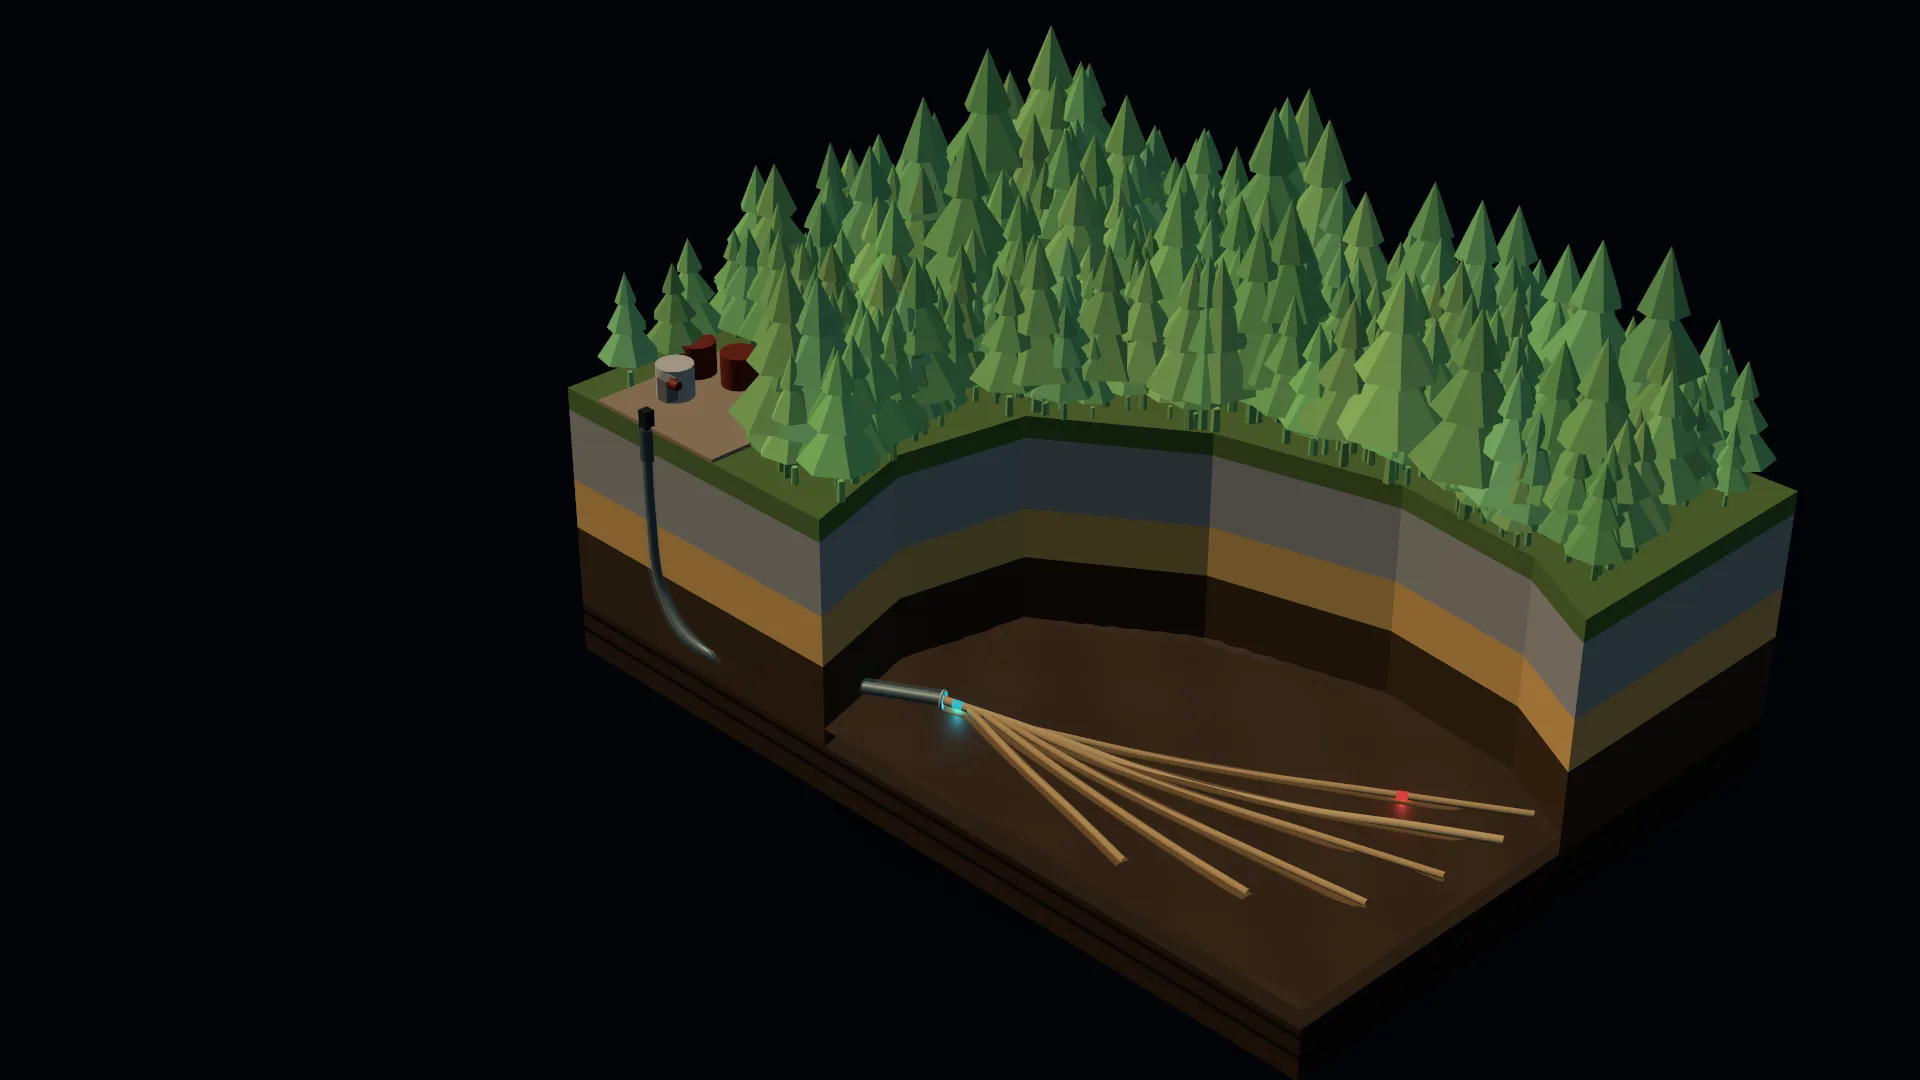
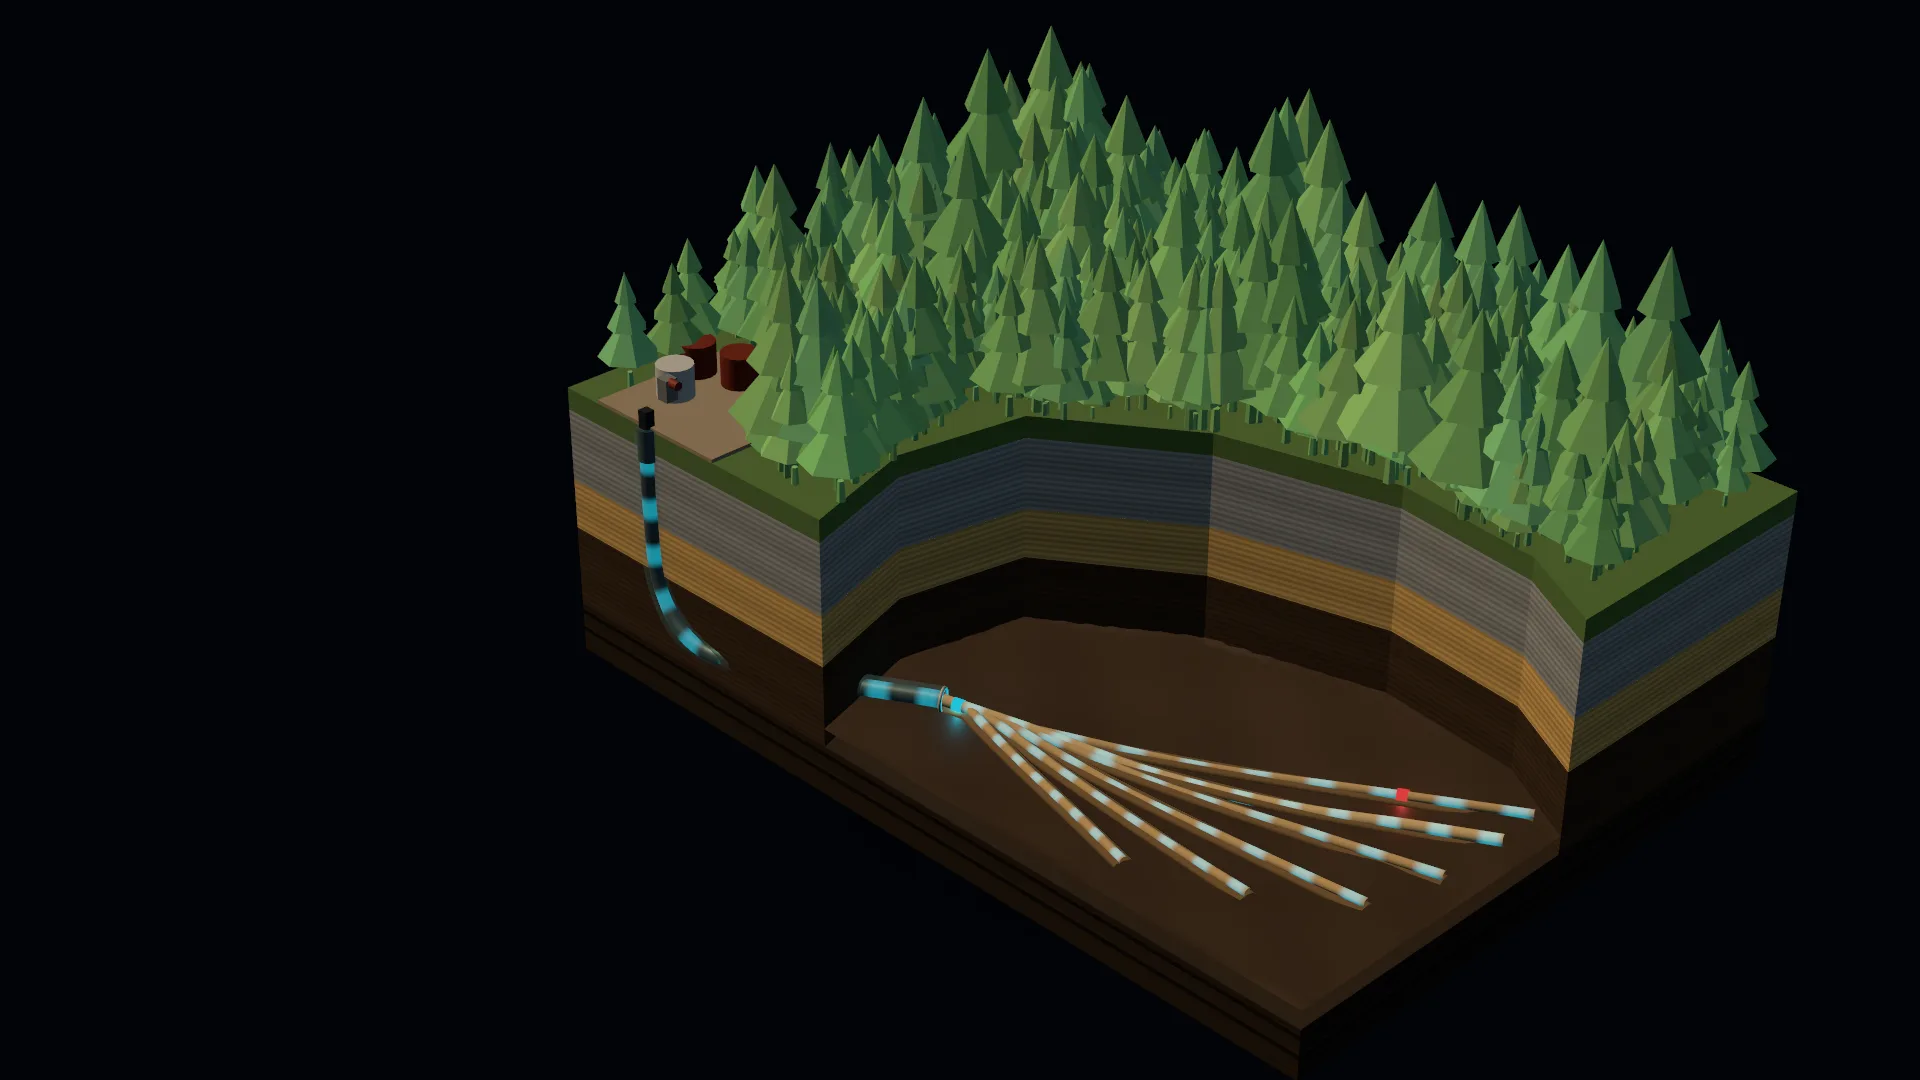
feat: art pass - laminated strata, protagonist well with flow chevrons
Closes the two highest-leverage gaps vs the artist reference:
1. Strata striation - world-Y procedural bedding shader on the rock bands
   (replaces the invisible bumpMap approach; bump never touched base color,
   and normal perturbation barely reads on flat slab walls). Beds read
   horizontal on every cut face regardless of UV.
2. Well protagonism - fatter telescoping radii, darker steel casing, and
   animated cyan flow chevrons along every bore in the lit phase (the
   reference's blue production arrows, now moving). Chevrons fade with the
   light and hand off to the relay pulses in the dark; new `flow` field on
   CycleState, unit-tested.

Poster re-captured to reflect the richer scene. Gates: 40 tests, tsc, lint,
static build all green.

diff --git a/src/components/hero/island/Terrain.tsx b/src/components/hero/island/Terrain.tsx
@@ -82,6 +82,58 @@ function makeNoiseTexture(): THREE.Texture {
   return tex;
 }
 
+// Laminated bedding driven by WORLD-Y, injected into a MeshStandardMaterial via
+// onBeforeCompile. A bumpMap (the prior approach) only perturbs normals — on flat,
+// smoothly-lit slab walls that is nearly invisible, and it never touches base color.
+// Real lithology lamination IS color variation (light/dark beds), so we modulate the
+// albedo directly. World-Y means the beds read perfectly horizontal on EVERY cut face
+// regardless of the extrude UV layout, and the multiply happens before lighting so the
+// day→dark cycle still dims the whole slab naturally.
+//   freq  — bedding-plane spacing (higher = finer beds)
+//   depth — how dark the bedding planes cut (0..1)
+//   phase — per-band offset so adjacent strata don't share identical bands
+function makeBeddingMaterial(
+  color: string,
+  roughness: number,
+  freq: number,
+  depth: number,
+  phase: number,
+  bump?: THREE.Texture,
+): THREE.MeshStandardMaterial {
+  const mat = new THREE.MeshStandardMaterial({ color, roughness, metalness: 0 });
+  if (bump) {
+    mat.bumpMap = bump;
+    mat.bumpScale = 0.018;
+  }
+  mat.onBeforeCompile = (shader) => {
+    shader.vertexShader = shader.vertexShader
+      .replace('#include <common>', '#include <common>\nvarying float vBedY;')
+      .replace(
+        '#include <begin_vertex>',
+        '#include <begin_vertex>\nvBedY = (modelMatrix * vec4(position, 1.0)).y;',
+      );
+    shader.fragmentShader = shader.fragmentShader
+      .replace(
+        '#include <common>',
+        `#include <common>
+        varying float vBedY;
+        const float BED_FREQ = ${freq.toFixed(1)};
+        const float BED_DEPTH = ${depth.toFixed(2)};
+        const float BED_PHASE = ${phase.toFixed(2)};`,
+      )
+      .replace(
+        '#include <color_fragment>',
+        `#include <color_fragment>
+        float bed = abs(sin(vBedY * BED_FREQ + BED_PHASE));
+        float line = smoothstep(0.45, 0.97, bed);            // sharp bedding planes
+        float lam = 0.5 + 0.5 * sin(vBedY * BED_FREQ * 0.31); // slow bed-to-bed value drift
+        diffuseColor.rgb *= (1.0 - BED_DEPTH * line);         // darken the planes
+        diffuseColor.rgb *= (0.90 + 0.18 * lam);              // gentle lamination shading`,
+      );
+  };
+  return mat;
+}
+
 function makeShadowTexture(): THREE.Texture {
   if (typeof document === 'undefined') return fallbackTexture();
   const size = 256;
@@ -124,31 +176,49 @@ export default function Terrain() {
   const shadowTex = useMemo(() => makeShadowTexture(), []);
   const noiseTex = useMemo(() => makeNoiseTexture(), []);
 
+  // Per-band bedding character: shale (overburden) is finely laminated; sand is
+  // coarser-bedded; the deep zones get subtler, slower beds. Phase offsets keep
+  // adjacent strata from sharing identical bedding lines across their shared edge.
+  const BEDDING: Record<string, { freq: number; depth: number; phase: number }> = {
+    overburden: { freq: 34, depth: 0.34, phase: 0.0 },
+    sand: { freq: 22, depth: 0.26, phase: 1.1 },
+    bitumenUp: { freq: 26, depth: 0.3, phase: 2.3 },
+  };
+
+  // One bedding material per rock band (topsoil/grass stays plain). Built once.
+  const strataMats = useMemo(
+    () =>
+      STRATA.map((s) => {
+        if (s.name === 'topsoil') {
+          const m = new THREE.MeshStandardMaterial({
+            color: s.color,
+            roughness: s.roughness,
+            metalness: 0,
+          });
+          m.bumpMap = noiseTex;
+          m.bumpScale = 0.02;
+          return m;
+        }
+        const b = BEDDING[s.name] ?? { freq: 26, depth: 0.3, phase: 0 };
+        return makeBeddingMaterial(s.color, s.roughness, b.freq, b.depth, b.phase, noiseTex);
+      }),
+    // eslint-disable-next-line react-hooks/exhaustive-deps
+    [noiseTex],
+  );
+  const lowerMat = useMemo(
+    () => makeBeddingMaterial(LOWER.color, LOWER.roughness, 20, 0.28, 0.6, noiseTex),
+    [noiseTex],
+  );
+
   // Resources are intentionally not disposed: the hero mounts once per page and
   // lives for its lifetime. (Dev hot-reload remounts leak a little VRAM —
   // acceptable; revisit only if this component ever mounts repeatedly.)
   return (
     <group>
       {STRATA.map((s, i) => (
-        <mesh key={s.name} geometry={strataGeoms[i]}>
-          <meshStandardMaterial
-            color={s.color}
-            roughness={s.roughness}
-            metalness={0}
-            bumpMap={noiseTex}
-            bumpScale={0.02}
-          />
-        </mesh>
+        <mesh key={s.name} geometry={strataGeoms[i]} material={strataMats[i]} />
       ))}
-      <mesh geometry={lowerGeom}>
-        <meshStandardMaterial
-          color={LOWER.color}
-          roughness={LOWER.roughness}
-          metalness={0}
-          bumpMap={noiseTex}
-          bumpScale={0.02}
-        />
-      </mesh>
+      <mesh geometry={lowerGeom} material={lowerMat} />
       {coalGeoms.map((g, i) => (
         <mesh key={`coal-y${COAL_YS[i]}`} geometry={g} scale={[1.001, 1, 1.001]}>
           <meshStandardMaterial color="#0d0b08" roughness={0.4} metalness={0.1} />

diff --git a/src/components/hero/island/IslandScene.tsx b/src/components/hero/island/IslandScene.tsx
@@ -40,6 +40,7 @@ export default function IslandScene({ tier, reducedMotion, compact }: IslandScen
       createPulseMaterial({
         base: { color: COLORS.casing, roughness: 0.35, metalness: 0.85 },
         pulseColor: COLORS.emGlow,
+        flowCount: 10,
       }),
     [],
   );
@@ -48,6 +49,25 @@ export default function IslandScene({ tier, reducedMotion, compact }: IslandScen
       createPulseMaterial({
         base: { color: COLORS.lateral, roughness: 0.9, metalness: 0 },
         pulseColor: COLORS.signalRed,
+        flowCount: 8,
+      }),
+    [],
+  );
+  const motherboreFlow = useMemo(
+    () =>
+      createPulseMaterial({
+        base: { color: COLORS.openHole, roughness: 0.9, metalness: 0 },
+        pulseColor: COLORS.emGlow,
+        flowCount: 12,
+      }),
+    [],
+  );
+  const lateralFlow = useMemo(
+    () =>
+      createPulseMaterial({
+        base: { color: COLORS.lateral, roughness: 0.9, metalness: 0 },
+        pulseColor: COLORS.emGlow,
+        flowCount: 8,
       }),
     [],
   );
@@ -77,6 +97,18 @@ export default function IslandScene({ tier, reducedMotion, compact }: IslandScen
     } else {
       casedPulse.setPulse(-1, 0);
     }
+
+    // Lit-phase production-flow chevrons on every bore (freeze time under reduced motion).
+    // Wrap at 20 s: the dash shader is periodic in uTime*0.45, and 20*0.45 = 9.0 (an
+    // integer number of dash periods), so the wrap is seamless AND keeps uTime small —
+    // raw unbounded elapsedTime would lose fragment-shader fract() precision (dash jitter)
+    // after a long session.
+    const flowTime = reducedMotion ? REDUCED_MOTION_T : state.clock.elapsedTime % 20;
+    const flowStrength = 0.9 * s.flow;
+    casedPulse.setFlow(flowStrength, flowTime);
+    lateralPulse.setFlow(flowStrength, flowTime);
+    motherboreFlow.setFlow(flowStrength, flowTime);
+    lateralFlow.setFlow(flowStrength, flowTime);
 
     if (parallax.current && !reducedMotion) {
       const targetY = state.pointer.x * 0.05;
@@ -124,6 +156,8 @@ export default function IslandScene({ tier, reducedMotion, compact }: IslandScen
             paths={paths}
             casedMaterial={casedPulse.material}
             lateralFiveMaterial={lateralPulse.material}
+            openHoleMaterial={motherboreFlow.material}
+            lateralMaterial={lateralFlow.material}
           />
           <WellFiTools toolA={paths.toolA} toolB={paths.toolB} cycleRef={cycleRef} />
           <SignalRelay cycleRef={cycleRef} wellhead={paths.wellhead} />

diff --git a/src/lib/island/pulseMaterial.ts b/src/lib/island/pulseMaterial.ts
@@ -10,6 +10,8 @@ export interface PulseHandle {
   material: THREE.MeshStandardMaterial;
   /** head: 0..1 along the tube's u axis, or -1 to disable. strength: emissive multiplier. width: gaussian half-width in u (default 0.07). */
   setPulse(head: number, strength: number, width?: number): void;
+  /** strength: 0..1 lit-phase flow intensity. time: elapsed scene time for animation. */
+  setFlow(strength: number, time: number): void;
 }
 
 // Contract: the mesh using this material must be a TubeGeometry — three maps
@@ -17,12 +19,17 @@ export interface PulseHandle {
 export function createPulseMaterial(opts: {
   base: THREE.MeshStandardMaterialParameters;
   pulseColor: string;
+  flowCount?: number;
 }): PulseHandle {
   const uniforms = {
     uHead: { value: -1 },
     uWidth: { value: 0.07 },
     uStrength: { value: 0 },
     uPulseColor: { value: new THREE.Color(opts.pulseColor) },
+    uTime: { value: 0 },
+    uFlowStrength: { value: 0 },
+    uFlowCount: { value: opts.flowCount ?? 10 },
+    uFlowColor: { value: new THREE.Color('#22D3EE') },
   };
 
   const material = new THREE.MeshStandardMaterial(opts.base);
@@ -35,7 +42,7 @@ export function createPulseMaterial(opts: {
     shader.fragmentShader = shader.fragmentShader
       .replace(
         '#include <common>',
-        '#include <common>\nuniform float uHead;\nuniform float uWidth;\nuniform float uStrength;\nuniform vec3 uPulseColor;',
+        '#include <common>\nuniform float uHead;\nuniform float uWidth;\nuniform float uStrength;\nuniform vec3 uPulseColor;\nuniform float uTime;\nuniform float uFlowStrength;\nuniform float uFlowCount;\nuniform vec3 uFlowColor;',
       )
       .replace(
         '#include <emissivemap_fragment>',
@@ -43,6 +50,11 @@ export function createPulseMaterial(opts: {
         if (uHead >= 0.0) {
           float d = (vUv.x - uHead) / uWidth;
           totalEmissiveRadiance += uPulseColor * (uStrength * exp(-d * d));
+        }
+        if (uFlowStrength > 0.0) {
+          float saw = fract(vUv.x * uFlowCount + uTime * 0.45);
+          float dash = smoothstep(0.0, 0.22, saw) * (1.0 - smoothstep(0.4, 0.62, saw));
+          totalEmissiveRadiance += uFlowColor * (uFlowStrength * dash * 0.55);
         }`,
       );
   };
@@ -53,6 +65,10 @@ export function createPulseMaterial(opts: {
       uniforms.uHead.value = head;
       uniforms.uStrength.value = strength;
       uniforms.uWidth.value = width;
+    },
+    setFlow(strength, time) {
+      uniforms.uFlowStrength.value = strength;
+      uniforms.uTime.value = time;
     },
   };
 }

diff --git a/src/components/hero/island/WellSystem.tsx b/src/components/hero/island/WellSystem.tsx
@@ -13,9 +13,11 @@ interface WellSystemProps {
   // Pulse-carrying materials, owned by IslandScene (created via createPulseMaterial).
   casedMaterial: THREE.Material;
   lateralFiveMaterial: THREE.Material;
+  openHoleMaterial: THREE.Material;
+  lateralMaterial: THREE.Material;
 }
 
-export default function WellSystem({ paths, casedMaterial, lateralFiveMaterial }: WellSystemProps) {
+export default function WellSystem({ paths, casedMaterial, lateralFiveMaterial, openHoleMaterial, lateralMaterial }: WellSystemProps) {
   const geoms = useMemo(() => {
     const cased = new THREE.TubeGeometry(paths.cased, 72, RADII.cased, 12, false);
     const shell = new THREE.TubeGeometry(paths.cased, 72, RADII.cased * 1.55, 12, false);
@@ -70,18 +72,14 @@ export default function WellSystem({ paths, casedMaterial, lateralFiveMaterial }
       <mesh geometry={geoms.cased} material={casedMaterial} />
 
       {/* Open-hole pilot */}
-      <mesh geometry={geoms.openHole}>
-        <meshStandardMaterial color={COLORS.openHole} roughness={0.9} metalness={0} />
-      </mesh>
+      <mesh geometry={geoms.openHole} material={openHoleMaterial} />
 
       {/* Laterals — L5 (index 4) carries the red pulse from WellFi B */}
       {geoms.laterals.map((g, i) =>
         i === PULSE_LATERAL_INDEX ? (
           <mesh key={`lat-${i}`} geometry={g} material={lateralFiveMaterial} />
         ) : (
-          <mesh key={`lat-${i}`} geometry={g}>
-            <meshStandardMaterial color={COLORS.lateral} roughness={0.9} metalness={0} />
-          </mesh>
+          <mesh key={`lat-${i}`} geometry={g} material={lateralMaterial} />
         ),
       )}
 

diff --git a/src/lib/island/cycle.test.ts b/src/lib/island/cycle.test.ts
@@ -61,12 +61,19 @@ describe('cycleState', () => {
     expect(f06.collarA).toBeGreaterThan(EMBER + 0.2);
   });
 
+  it('flow follows the lit phase', () => {
+    expect(cycleState(1).flow).toBe(1);
+    expect(cycleState(6).flow).toBe(0);
+    expect(cycleState(4).flow).toBeGreaterThan(0);
+    expect(cycleState(4).flow).toBeLessThan(1);
+  });
+
   it('all envelope fields stay in range', () => {
     let maxCollar = 0;
     for (let t = 0; t < CYCLE_S; t += 0.05) {
       const s = cycleState(t);
       maxCollar = Math.max(maxCollar, s.collarA, s.collarB);
-      for (const k of ['sun', 'sky', 'collarA', 'collarB'] as const) {
+      for (const k of ['sun', 'sky', 'collarA', 'collarB', 'flow'] as const) {
         expect(s[k]).toBeGreaterThanOrEqual(0);
         expect(s[k]).toBeLessThanOrEqual(1);
       }

diff --git a/src/lib/island/wellPath.ts b/src/lib/island/wellPath.ts
@@ -8,10 +8,10 @@ import { CatmullRomCurve3, Vector3 } from 'three';
 import { floorY } from './layout';
 
 export const RADII = {
-  surfaceStub: 0.12,
-  cased: 0.09,
-  openHole: 0.062,
-  lateral: 0.05,
+  surfaceStub: 0.15,
+  cased: 0.125,
+  openHole: 0.085,
+  lateral: 0.068,
 } as const;
 
 export interface ToolAnchor {

diff --git a/src/components/hero/island/WellFiTools.tsx b/src/components/hero/island/WellFiTools.tsx
@@ -12,7 +12,7 @@ const MODEL_PATH = '/wellfi/models/wellfi-gauge.glb';
 useGLTF.setDecoderPath('/wellfi/draco/');
 useGLTF.preload(MODEL_PATH, true);
 
-const TOOL_LENGTH = 0.55; // scene units
+const TOOL_LENGTH = 0.62; // scene units
 
 class GlbBoundary extends Component<{ fallback: ReactNode; children: ReactNode }, { failed: boolean }> {
   state = { failed: false };
@@ -60,7 +60,7 @@ function GaugeGlb() {
 function CapsuleStandIn() {
   return (
     <mesh rotation={[0, 0, Math.PI / 2]}>
-      <capsuleGeometry args={[0.045, TOOL_LENGTH - 0.09, 6, 12]} />
+      <capsuleGeometry args={[0.06, TOOL_LENGTH - 0.09, 6, 12]} />
       <meshStandardMaterial color="#d9e5ef" metalness={0.85} roughness={0.32} />
     </mesh>
   );
@@ -98,7 +98,7 @@ function Tool({ anchor, glowColor, readBoost, cycleRef }: ToolProps) {
       </GlbBoundary>
       {/* Emissive collar sleeve — independent of the GLB, never fails. At peak pulse the color exceeds 1.0 (×2.8) BY DESIGN: that's what trips the Bloom threshold for the candle halo. */}
       <mesh rotation={[0, 0, Math.PI / 2]}>
-        <cylinderGeometry args={[0.062, 0.062, 0.15, 16]} />
+        <cylinderGeometry args={[0.095, 0.095, 0.15, 16]} />
         <meshBasicMaterial ref={sleeve} color={glowColor} toneMapped={false} />
       </mesh>
       <pointLight ref={light} color={glowColor} intensity={0} distance={1.8} decay={2} />

diff --git a/src/lib/island/cycle.ts b/src/lib/island/cycle.ts
@@ -13,6 +13,7 @@ export interface CycleState {
   pulseLateral: number; // B → junction pulse progress, or -1
   pulseCased: number;   // shoe → wellhead pulse progress, or -1
   receiver: number;     // surface ring progress, or -1
+  flow: number;         // 0..1 — lit-phase production-flow chevron strength
 }
 
 export function smooth(a: number, b: number, t: number): number {
@@ -64,6 +65,7 @@ export function cycleState(t: number): CycleState {
     pulseLateral,
     pulseCased,
     receiver,
+    flow: light,
   };
 }
 

diff --git a/src/lib/island/layout.ts b/src/lib/island/layout.ts
@@ -89,7 +89,7 @@ export const COLORS = {
   emCyan: '#06B6D4',
   emGlow: '#22D3EE',
   signalRed: '#EF4444',
-  casing: '#9fb6c4',
+  casing: '#6b7d8a',
   casingShell: '#7dd3e8',
   openHole: '#c2ab7d',
   lateral: '#b59a6b',